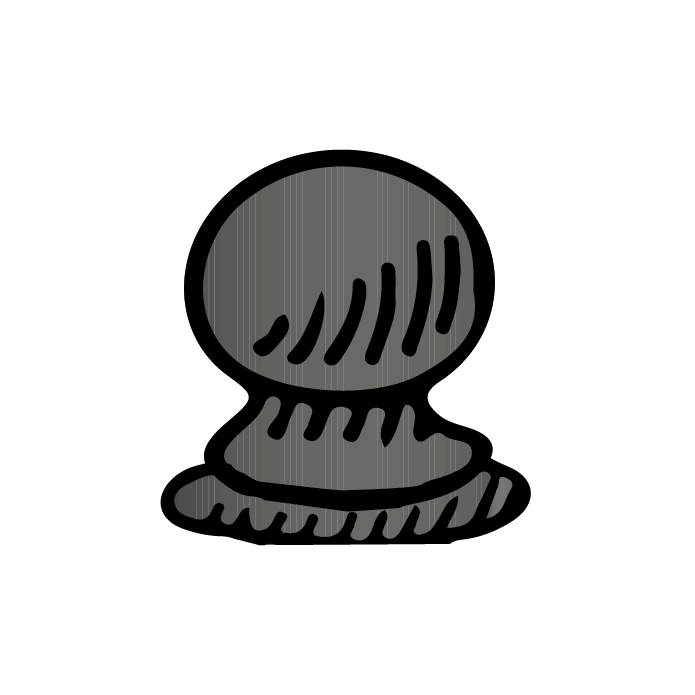
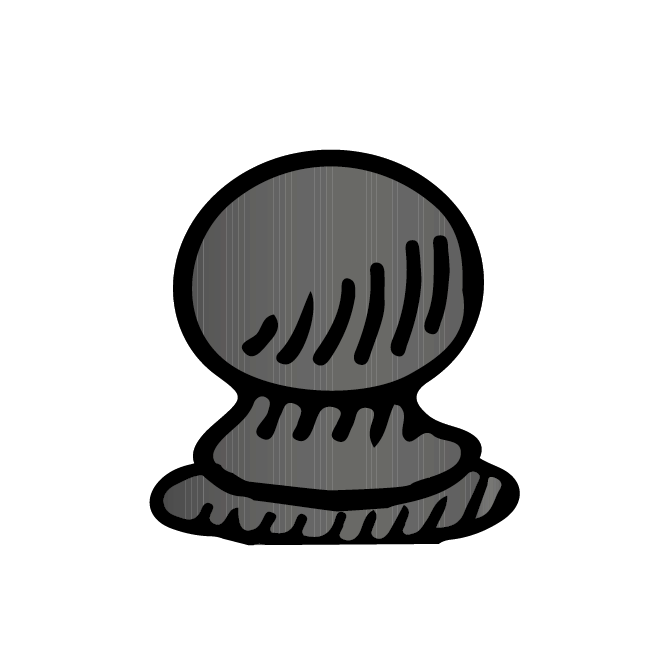
css scaling fixes

Changed region(s): [[0.2121, 0.2727, 0.7879, 0.8485], [0.2424, 0.2121, 0.6364, 0.3939]]

diff --git a/css/cms.css b/css/cms.css
@@ -13,7 +13,7 @@ body {
     height: 11in;
     width: 8.5in;
     font-family: 'Source Sans Pro', sans-serif;
-    font-size: 14px;
+    font-size: 15px;
     background-image: url('../img/cmsback.png');
     background-repeat: no-repeat;
     background-size: contain;
@@ -28,9 +28,9 @@ body {
 }
 
 #topbar {
-    height: 0.3in;
+    height: 0.41in;
     background-color: #FFD053;
-    margin-bottom: 0.5in;
+    margin-bottom: 0.38in;
 }
 
 #topbar~* {
@@ -40,23 +40,24 @@ body {
 #header {
     height: 1.5in;
     display: flex;
-    border-bottom: 1px solid grey;
+    border-bottom: 0.25px solid grey;
     align-items: center;
+    justify-content: center;
 }
 
-#header>* {
+#header > * {
     margin-top: .3in;
 }
 
 #logo {
     margin: 0;
     padding: 0;
-    height: 1.29in;
-    width: 0.86in;
+    height: 1.39in;
+    width: 0.96in;
 }
 
 #titles {
-    width: 6in;
+    width: 5in;
     margin: 0;
     padding: 0;
 }
@@ -73,12 +74,12 @@ h3 {
 h2:first-of-type {
     margin-top: 0.09in;
     margin-bottom: 0;
-    font-size: 25px;
+    font-size: 26px;
 }
 
 h1 {
     margin-bottom: 0.08in;
-    font-size: 40px;
+    font-size: 42px;
     font-weight: 700;
 }
 
@@ -92,8 +93,8 @@ h2 span ~ span {
 }
 
 #piece {
-    width: 1.5in;
-    height: 1.54in;
+    width: 1.55in;
+    height: 1.59in;
     margin: 5px;
     padding: 0;
 }
@@ -129,7 +130,7 @@ span~span {
 }
 
 #footer {
-    border-top: 1px solid grey;
+    border-top: 0.25px solid grey;
     height: 0.45in;
     display: flex;
     padding: 0;

diff --git a/index.html b/index.html
@@ -22,7 +22,7 @@
             <h1>HOMEWORK SHEET</h1>
             <h2>Level:
                 <span>Pawn</span> | Topic:
-                <span>Pawn Moves</span>
+                <span>Rook Moves</span>
             </h2>
         </div>
         <img id="piece" alt="piece">
@@ -66,8 +66,8 @@
     <script src="./js/puzzles.js"></script>
     <script src="./js/populateBoards.js"></script>
     <script>
-        generateSheet();
         document.querySelector('body').addEventListener('click', generateSheet);
+        generateSheet();
     </script>
 </body>
 
